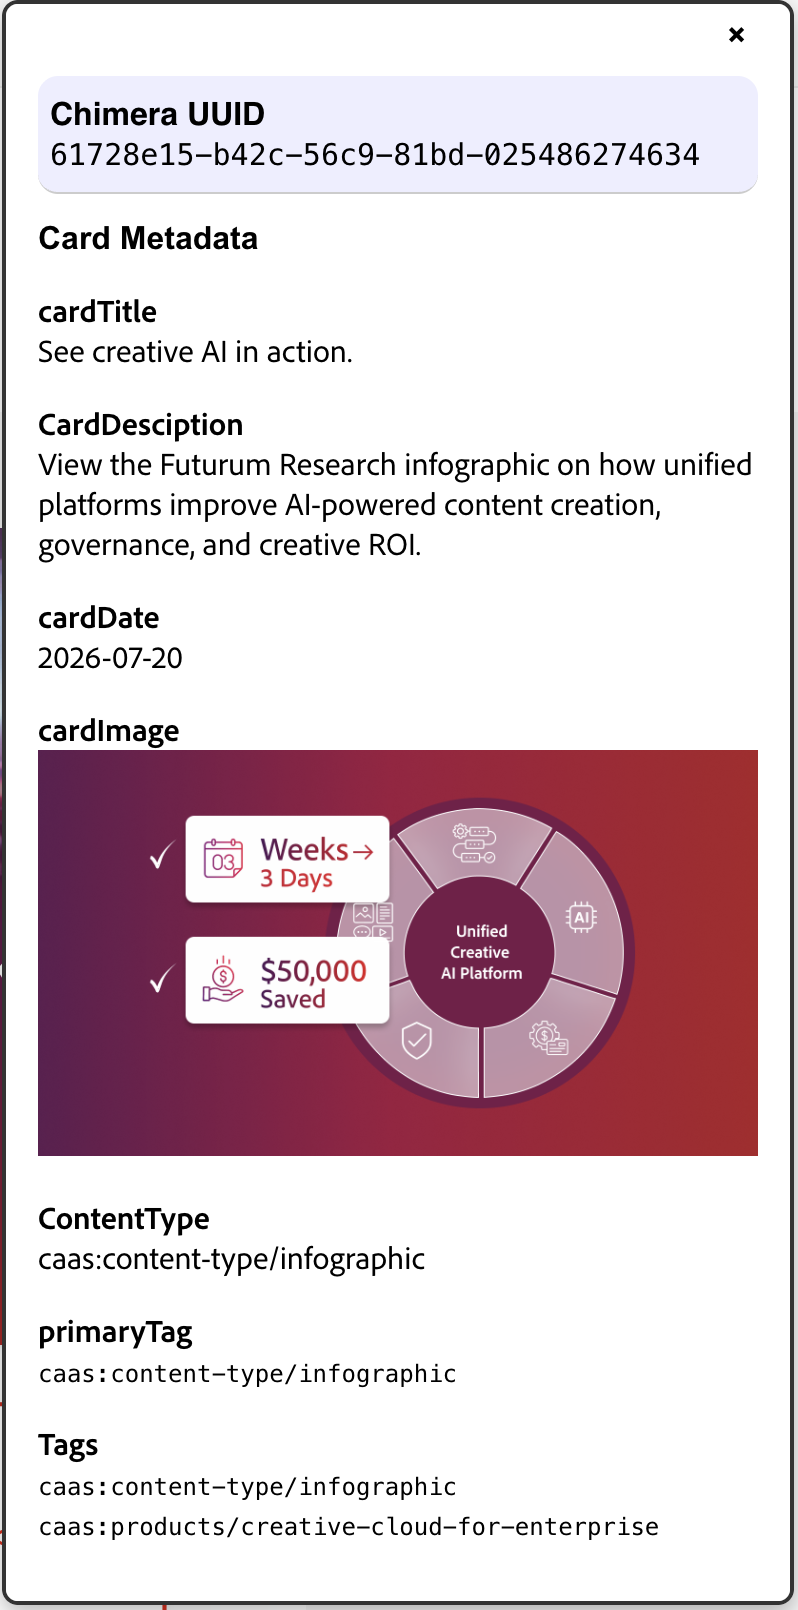
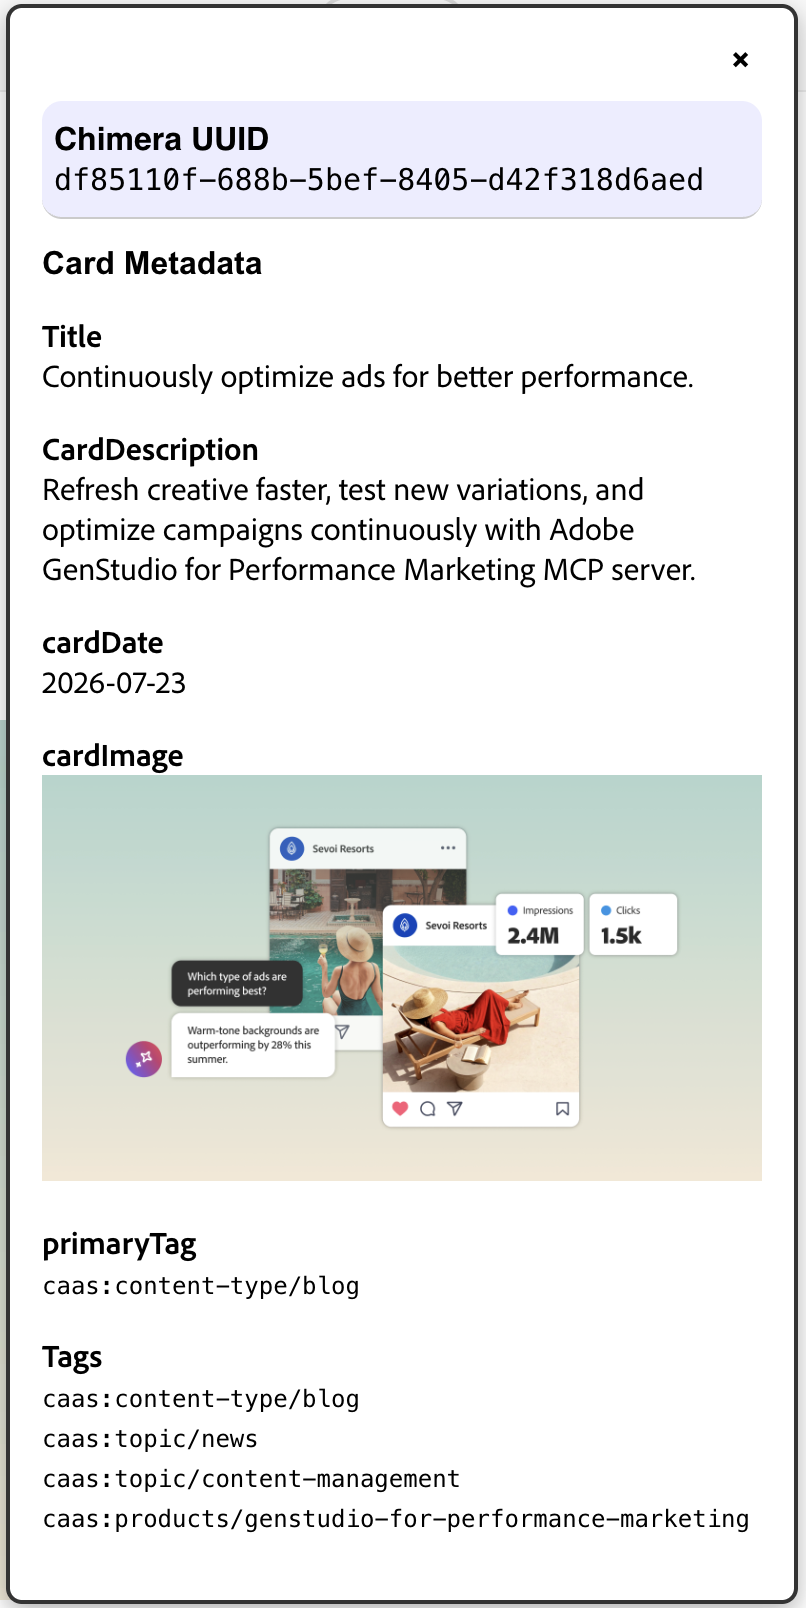
Updated image

diff --git a/bookmarklets/card-metadata/index.html b/bookmarklets/card-metadata/index.html
@@ -4,7 +4,17 @@
 <meta charset="UTF-8">
 <title>Card Metadata Bookmarklet</title>
 <style>
-  body { font-family: sans-serif; max-width: 640px; margin: 40px auto; line-height: 1.5; }
+  html { background: #efefef; }
+  body { font-family: none, sans-serif; 
+    max-width: 720px; 
+    margin: 40px auto; 
+    line-height: 1.5; 
+    background: #fefefe;
+    padding: 10px 25px;
+    border-radius: 20px;
+    box-shadow: 0 0 40px #ddd;
+    border: solid 1px #ccc;
+  }
   .bookmarklet {
     display: inline-block;
     padding: 10px 18px;
@@ -16,19 +26,33 @@
     font-weight: bold;
     cursor: grab;
   }
+  h2 { margin-bottom: -12px; }
   code { background: #f4f4f4; padding: 2px 5px; border-radius: 4px; }
+  a {color: #333}
+  a:hover {color: #33c}
 </style>
 </head>
 <body>
-<h1>Card Metadata Bookmarklet</h1>
+<h1 align="center">Card Metadata Bookmarklet</h1>
+
+<h2>How to Use it</h2>
 <p>Drag the button below to your bookmarks bar to install it:</p>
 <p><a class="bookmarklet" href="javascript:(async%20function()%7B%0A%20%20try%20%7B%0A%20%20%20%20let%20url%20%3D%20window.location.href.trim()%3B%0A%20%20%20%20for%20(const%20scheme%20of%20%5B%22https%3A%2F%2F%22%2C%20%22http%3A%2F%2F%22%5D)%20%7B%0A%20%20%20%20%20%20if%20(url.startsWith(scheme))%20%7B%0A%20%20%20%20%20%20%20%20url%20%3D%20url.substring(scheme.length)%3B%0A%20%20%20%20%20%20%20%20break%3B%0A%20%20%20%20%20%20%7D%0A%20%20%20%20%7D%0A%20%20%20%20const%20stage%20%3D%20url.includes('.stage.adobe.com')%20%3F%20'stage.'%20%3A%20''%3B%0A%20%20%20%20const%20msgUint8%20%3D%20new%20TextEncoder().encode(url)%3B%0A%20%20%20%20const%20hashBuffer%20%3D%20await%20crypto.subtle.digest('SHA-1'%2C%20msgUint8)%3B%0A%20%20%20%20const%20hashArray%20%3D%20Array.from(new%20Uint8Array(hashBuffer))%3B%0A%20%20%20%20const%20hex%20%3D%20hashArray.map(b%20%3D%3E%20b.toString(16).padStart(2%2C%20'0')).join('')%3B%0A%20%20%20%20const%20uuid%20%3D%20%60%24%7Bhex.substring(0%2C8)%7D-%24%7Bhex.substring(8%2C12)%7D-%24%7B(parseInt(hex.substring(12%2C16)%2C%2016)%20%26%200x0fff%20%7C%200x5000).toString(16).padStart(4%2C'0')%7D-%24%7B(parseInt(hex.substring(16%2C20)%2C%2016)%20%26%200x3fff%20%7C%200x8000).toString(16).padStart(4%2C'0')%7D-%24%7Bhex.substring(20%2C32)%7D%60%3B%0A%0A%20%20%20%20const%20pageDir%20%3D%20window.location.href.replace(%2F%5C%2F%5B%5E%2F%5D*%24%2F%2C%20'%2F')%3B%0A%20%20%20%20const%20md%20%3D%20document.querySelector('.card-metadata')%3B%0A%0A%20%20%20%20let%20contentHtml%20%3D%20%60%3Cdiv%20style%3D%22font-family%3Asans-serif%3Bmargin-bottom%3A12px%3Bborder-bottom%3A1px%20solid%20%23ccc%3B%20padding-bottom%3A14px%3Bbackground%3A%23eef%3Bpadding%3A%209px%206px%3Bborder-radius%3A%2010px%3B%22%3E%0A%20%20%20%20%20%20%3Cb%3EChimera%20UUID%3C%2Fb%3E%3Cbr%3E%0A%20%20%20%20%20%20%3Ccode%20style%3D%22font-size%3A15px%3B%22%3E%3Ca%20style%3D%22color%3A%23000%3B%20text-decoration%3Anone%22%20href%3D%22https%3A%2F%2Fwww.%24%7Bstage%7Dadobe.com%2Fchimera-api%2Fcollection%3Fdebug%3D1%26featuredCards%3D%24%7Buuid%7D%22%3E%24%7Buuid%7D%3C%2Fa%3E%3C%2Fcode%3E%0A%20%20%20%20%3C%2Fdiv%3E%60%3B%0A%0A%20%20%20%20if%20(!md)%20%7B%0A%20%20%20%20%20%20contentHtml%20%2B%3D%20%22%3Cp%20align%3D'center'%20style%3D'color%3Ared'%3EWarning!%3Cbr%3ENo%20card-metadata%20found%20in%20the%20file.%20%3Cp%20align%3D'center'%3EThe%20card%20may%20not%20exist%20in%20Chimera.%3C%2Fp%3E%22%3B%0A%20%20%20%20%7D%20else%20%7B%0A%20%20%20%20%20%20const%20html%20%3D%20new%20DOMParser().parseFromString(md.innerHTML%2C%20'text%2Fhtml')%3B%0A%20%20%20%20%20%20const%20children%20%3D%20html.querySelectorAll('div')%3B%0A%20%20%20%20%20%20let%20output%20%3D%20'%3Cb%20style%3D%22font-family%3Aarial%2C%20sans-serif%3B%20margin-bottom%3A12px%3Bpadding-bottom%3A15px%3B%22%3ECard%20Metadata%3C%2Fb%3E%3Cbr%3E'%3B%0A%20%20%20%20%20%20children.forEach(child%20%3D%3E%20%7B%0A%20%20%20%20%20%20%20%20const%20key%20%3D%20child.children%5B0%5D%3F.innerText%3B%0A%20%20%20%20%20%20%20%20let%20value%20%3D%20child.children%5B1%5D%3F.innerText%3B%0A%20%20%20%20%20%20%20%20if%20(key%20%26%26%20value)%20%7B%0A%20%20%20%20%20%20%20%20%20%20if%20(key.toLowerCase().endsWith('image'))%20%7B%0A%20%20%20%20%20%20%20%20%20%20%20%20const%20imgPath%20%3D%20child.querySelector('img')%3F.src.replace(%2F%5E.*%5C%2F%2F%2C%20'').replace(%2F%5C%3F.*%24%2F%2C%20'%20')%3B%0A%20%20%20%20%20%20%20%20%20%20%20%20value%20%3D%20%60%3Cimg%20src%3D%22%24%7BpageDir%20%2B%20imgPath%7D%22%20style%3D%22max-width%3A100%25%3B%22%3E%60%3B%0A%20%20%20%20%20%20%20%20%20%20%7D%20else%20if%20(key.toLowerCase().includes('tag'))%20%7B%0A%20%20%20%20%20%20%20%20%20%20%20%20value%20%3D%20%60%3Ctt%20style%3D%22font-family%3Amonospace%3Bfont-size%3A%20small%3B%22%3E%24%7Bvalue.replaceAll('%20'%2C'').replaceAll('%2C'%2C'%3Cbr%3E')%7D%3C%2Ftt%3E%60%3B%0A%20%20%20%20%20%20%20%20%20%20%7D%0A%20%20%20%20%20%20%20%20%20%20output%20%2B%3D%20%60%3Cp%3E%3Cb%3E%24%7Bkey%7D%3C%2Fb%3E%3Cbr%3E%24%7Bvalue%7D%3C%2Fp%3E%5Cn%60%3B%0A%20%20%20%20%20%20%20%20%7D%0A%20%20%20%20%20%20%7D)%3B%0A%20%20%20%20%20%20contentHtml%20%2B%3D%20output%3B%0A%20%20%20%20%7D%0A%0A%20%20%20%20let%20existingModal%20%3D%20document.getElementById('chimera-metadata-modal')%3B%0A%20%20%20%20if%20(existingModal)%20existingModal.remove()%3B%0A%0A%20%20%20%20const%20modal%20%3D%20document.createElement('div')%3B%0A%20%20%20%20modal.id%20%3D%20'chimera-metadata-modal'%3B%0A%20%20%20%20modal.style.cssText%20%3D%20'position%3Afixed%3B%20top%3A20px%3B%20right%3A20px%3B%20width%3A360px%3B%20max-height%3A80vh%3B%20overflow-y%3Aauto%3B%20background%3Awhite%3B%20color%3Ablack%3B%20border%3A2px%20solid%20%23333%3B%20border-radius%3A8px%3B%20padding%3A16px%3B%20z-index%3A999999%3B%20box-shadow%3A0%204px%2012px%20rgba(0%2C0%2C0%2C0.3)%3B%20font-size%3A16px%3B%20line-height%3A1.25'%3B%0A%20%20%20%20modal.innerHTML%20%3D%20%60%3Cdiv%20style%3D%22display%3Aflex%3B%20justify-content%3Aspace-between%3B%20align-items%3Acenter%3B%20margin-bottom%3A10px%3B%22%3E%3Cb%20style%3D%22font-size%3A16px%3B%22%3E%3C%2Fb%3E%3Cbutton%20onclick%3D%22this.parentElement.parentElement.remove()%22%20style%3D%22background%3Anone%3B%20border%3Anone%3B%20font-size%3A16px%3B%20cursor%3Apointer%3B%20font-weight%3Abold%3B%22%3E%26times%3B%3C%2Fbutton%3E%3C%2Fdiv%3E%3Cdiv%20id%3D%22content%22%3E%24%7BcontentHtml%7D%3C%2Fdiv%3E%60%3B%0A%20%20%20%20document.body.appendChild(modal)%3B%0A%20%20%7D%20catch%20(error)%20%7B%0A%20%20%20%20alert(%22Error%3A%20%22%20%2B%20error.message)%3B%0A%20%20%20%20console.error(%22Error%20executing%20bookmarklet%3A%22%2C%20error)%3B%0A%20%20%7D%0A%7D)()%3B">Card Metadata</a></p>
 <p>If dragging doesn't work, right-click the button and choose "Bookmark Link" / "Add Bookmark", or create a new bookmark manually and paste the link's URL.</p>
+
+<h2>How it Works</h2>
+<p>Navigate to any page with a card-metadata milo block in it, i.e.:<br>
+   <a href="https://business.adobe.com/blog/introducing-genstudio-performance-marketing-mcp-server">https://business.adobe.com/blog/introducing-genstudio-performance-marketing-mcp-server</a>
+   <br>And click on the <b>Card Metadata</b> button in the toolbar.
+</p>
+
 <h2>What it does</h2>
-<p>Run it on an authored page containing a <code>.card-metadata</code> block. It shows a floating panel with the page's Chimera UUID (linked to the Chimera collection API for debugging) and the parsed card metadata (title, description, tags, images, etc.).</p>
+<p>Run it on an authored page containing a <code>card-metadata</code> block. It shows a floating panel with the page's Chimera UUID (linked to the Chimera collection API for debugging) and the parsed card metadata (title, description, tags, images, etc.).</p>
 
 <p>A new popup window will show the card UUID and the card metadata if available.</p>
-<img src="./card-metadata.png" width="320">
+
+<p><b>Note</b>: Some UUIDs may not match the Chimera UUID</p>
+<img src="./card-metadata.png" width="380">
 
 </body>
 </html>
